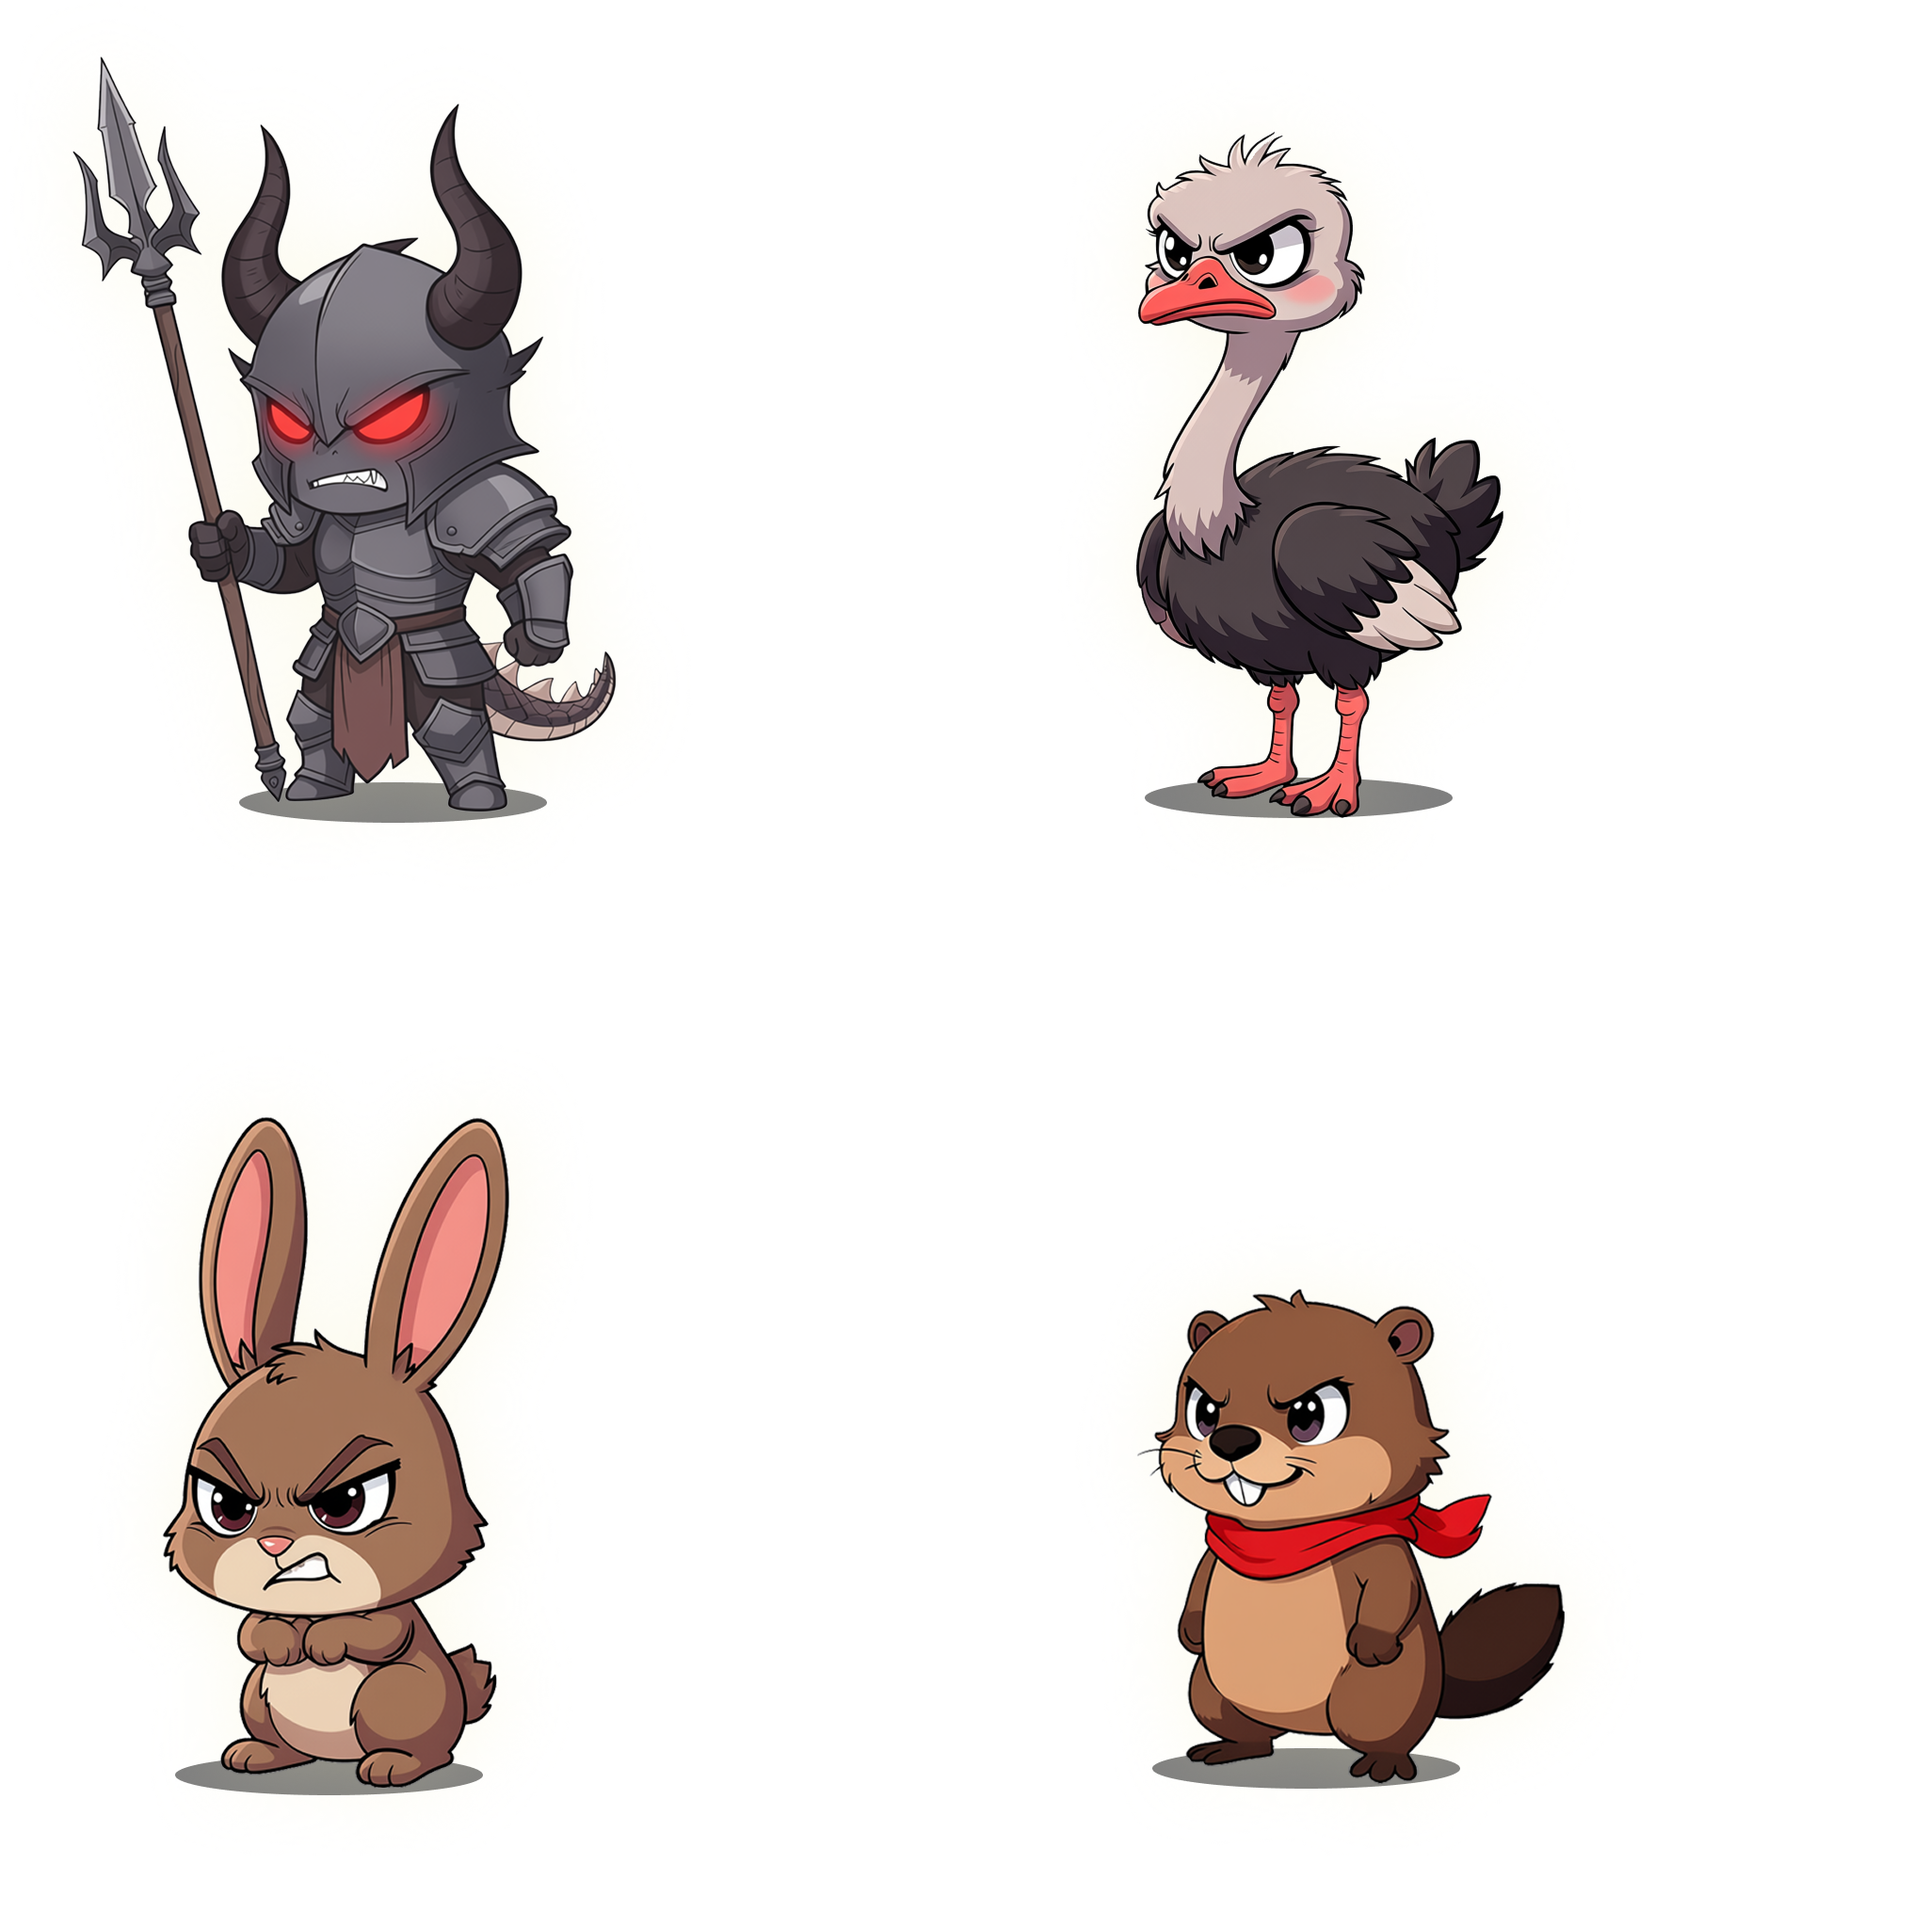
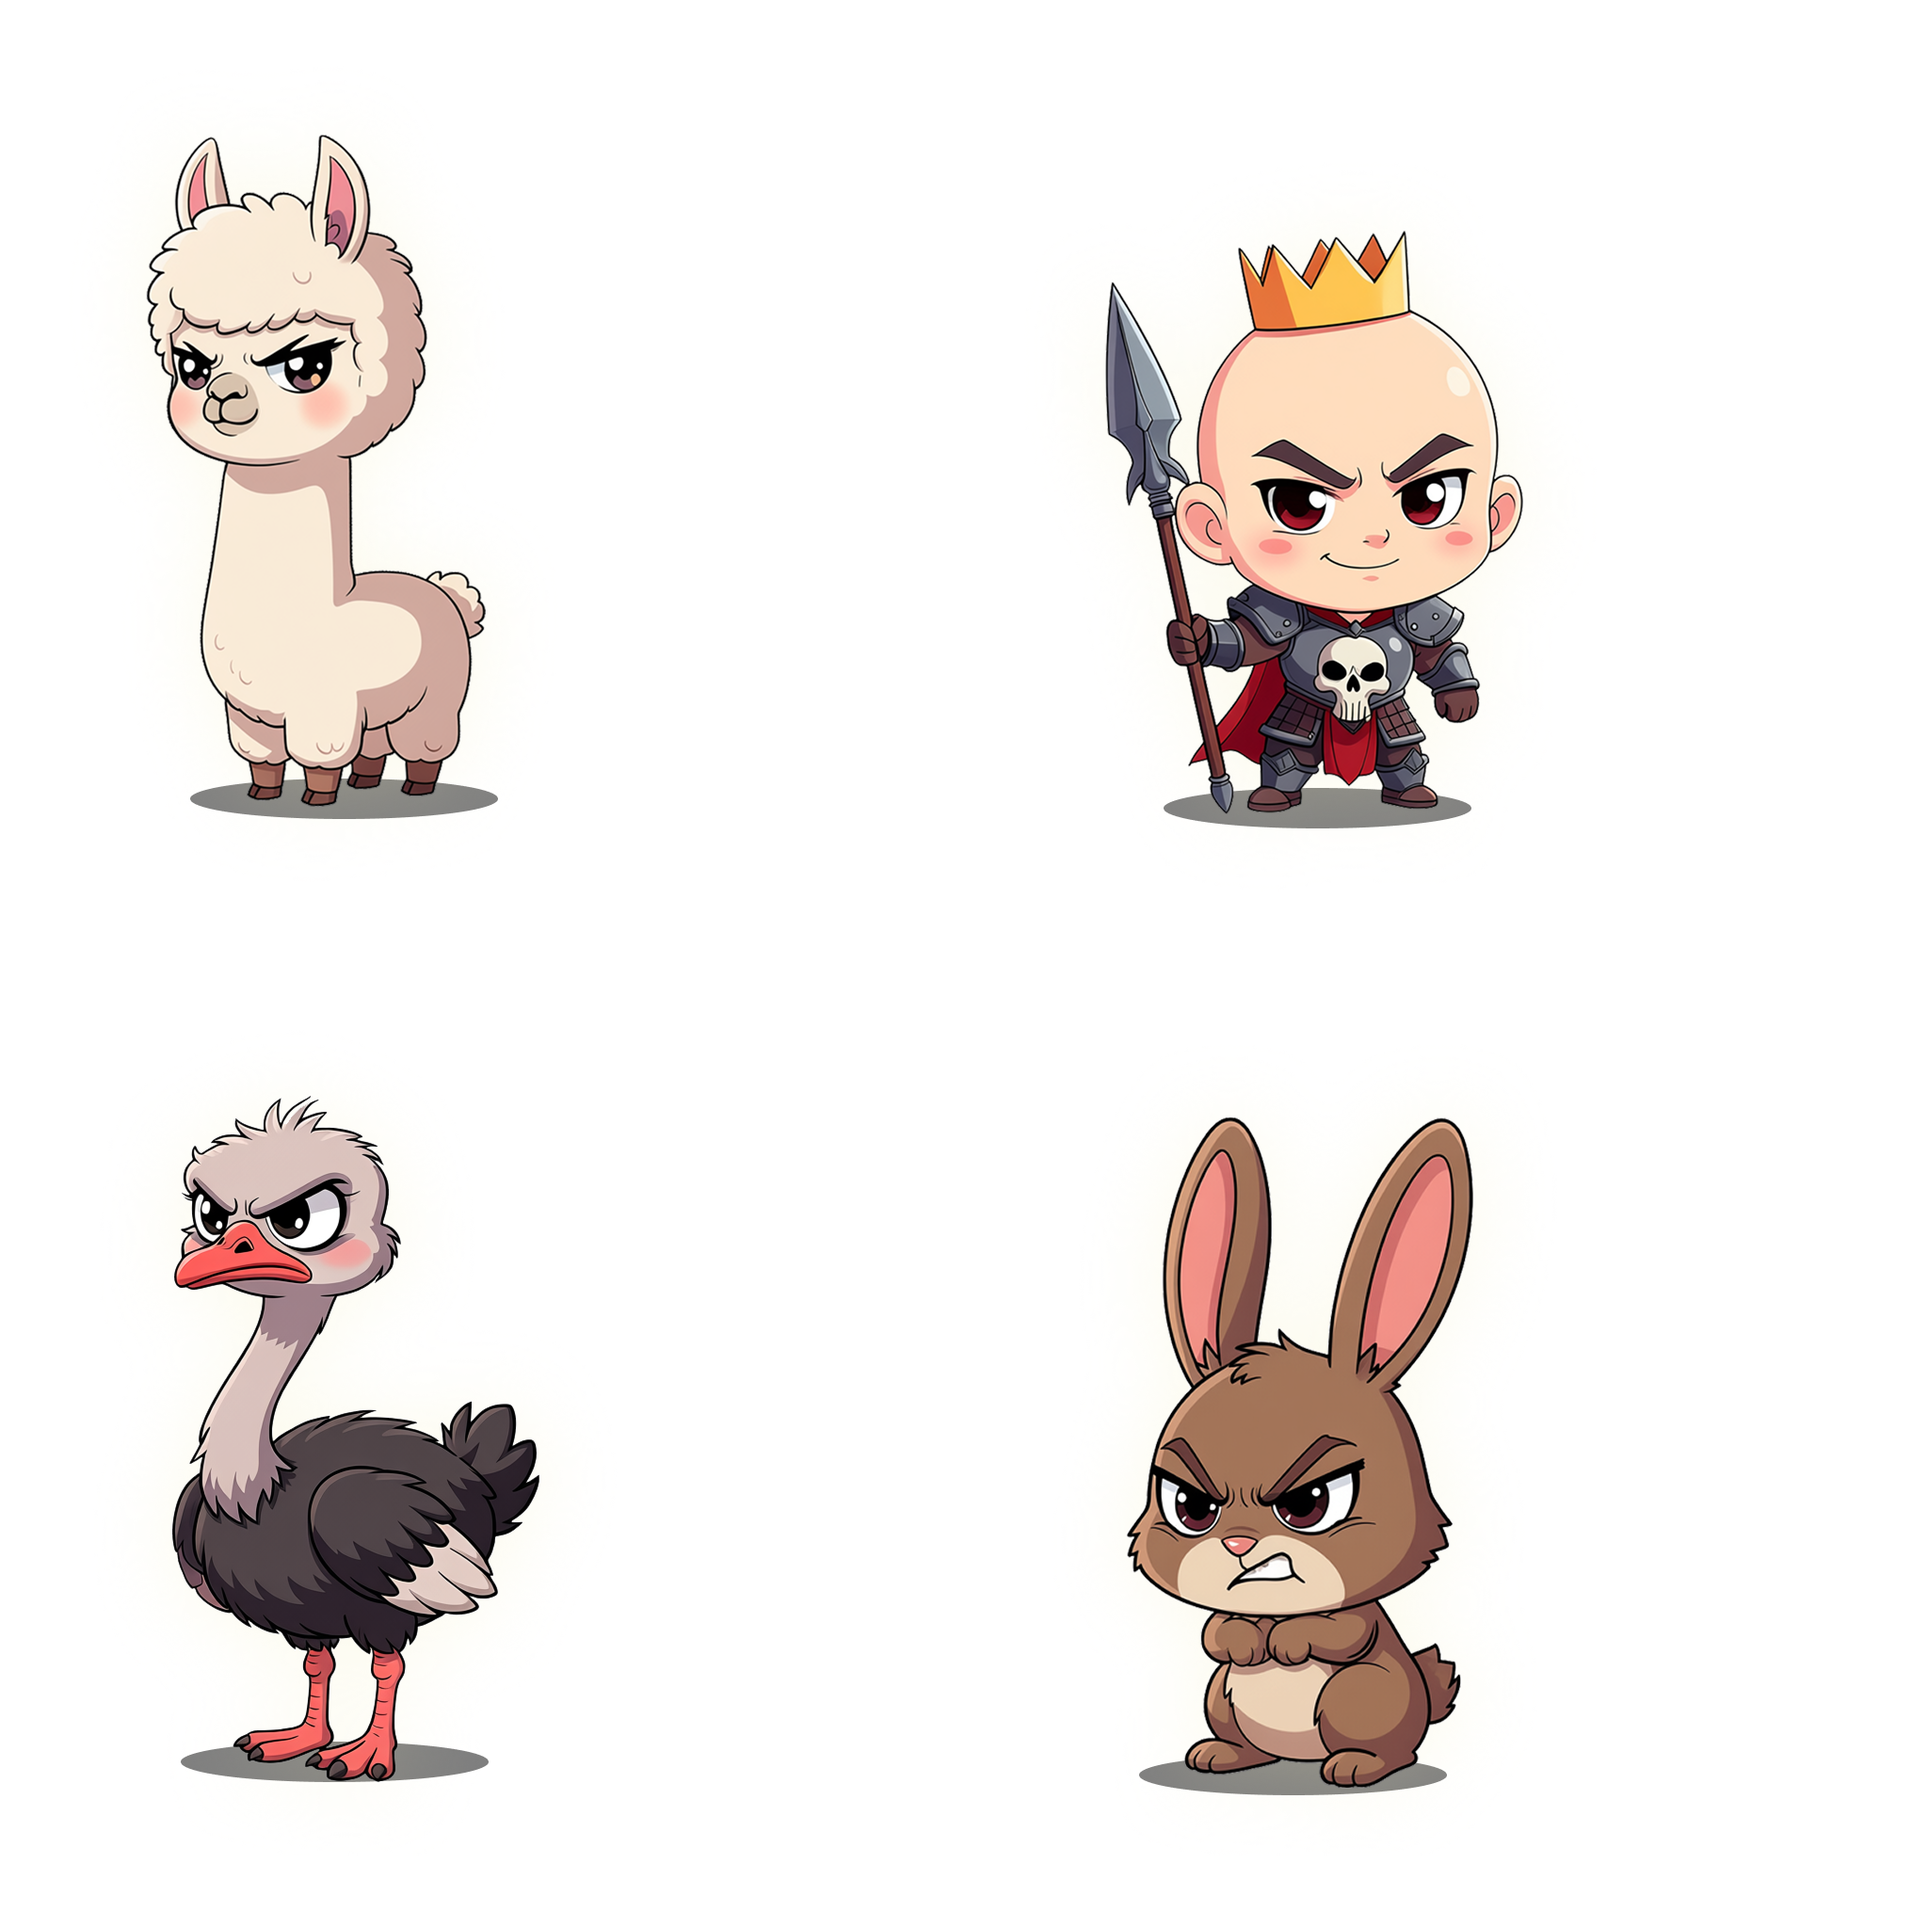
47

diff --git a/scripts/c3runtime.js b/scripts/c3runtime.js
@@ -1438,7 +1438,7 @@ self.C3_ExpressionFuncs = [
 		() => "Эпизод 2 : Михасик",
 		() => "Эпизод 3 : Тортилыч",
 		() => "Эпизод 4 : Беляшик",
-		() => "Эпизод 5 : Выдрочка",
+		() => "Эпизод 5 : Альпачино",
 		() => 5,
 		() => "Эпизод 6 : Косой",
 		() => 6,
